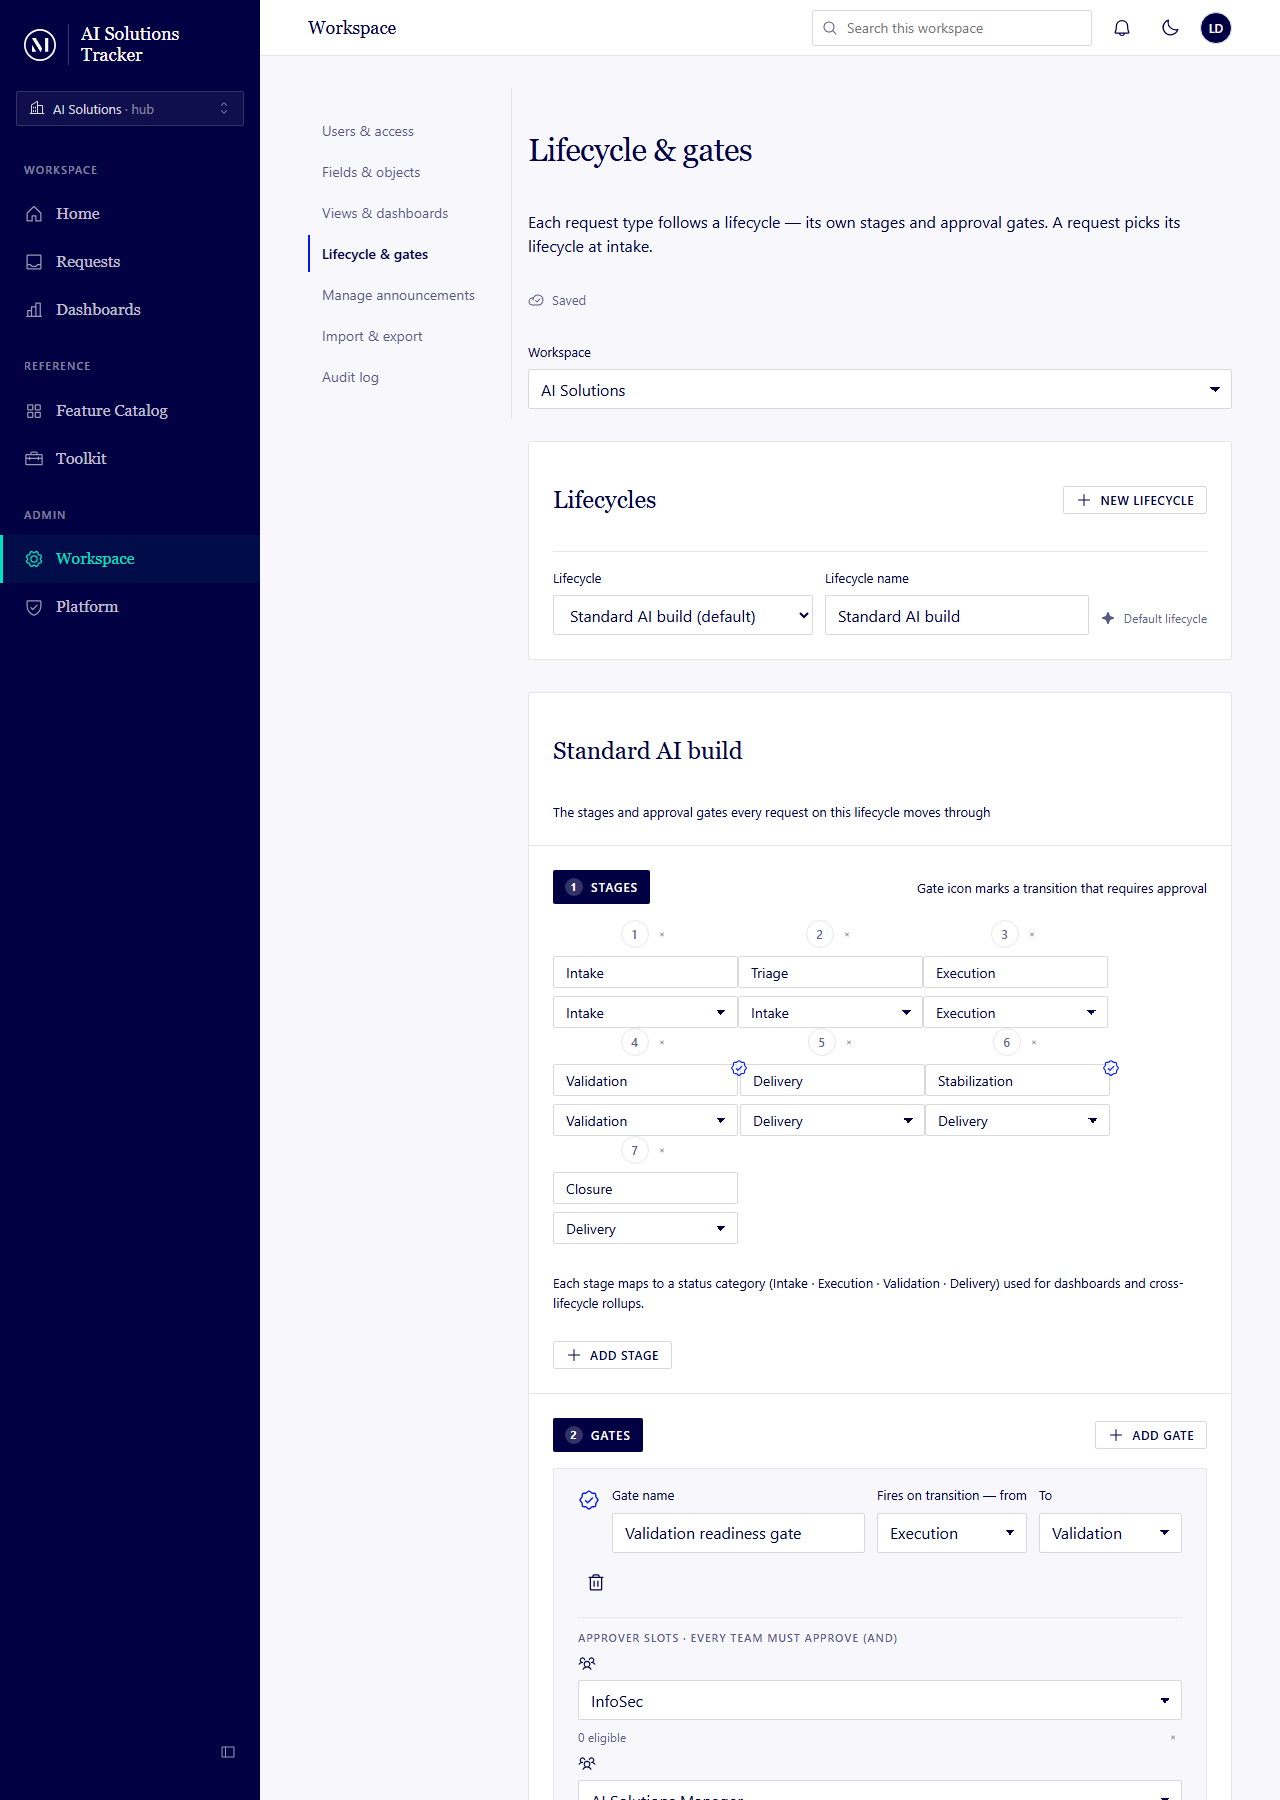
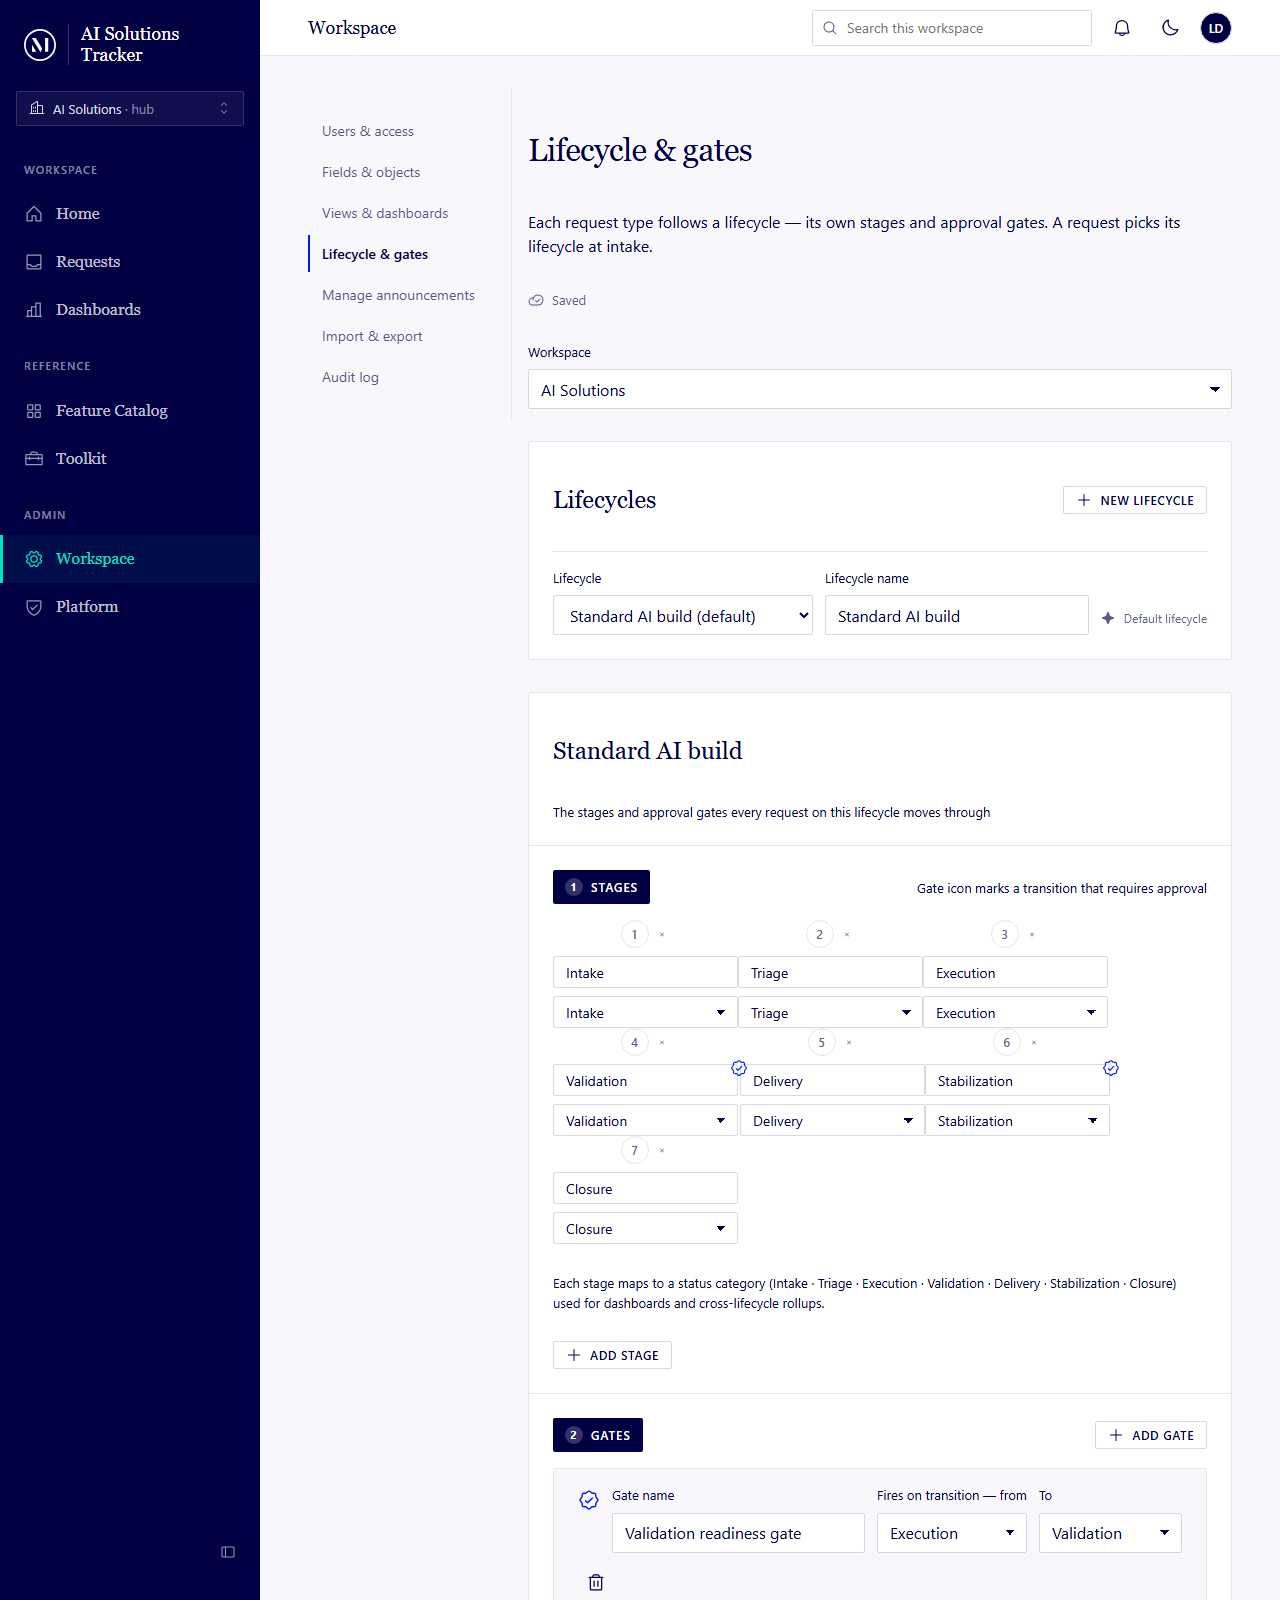
feat: one status-category bucket per lifecycle stage (4 -> 7)
Expand StatusCategory from 4 buckets to 7 so each stage maps 1:1 to its own same-named category (Intake/Triage/Execution/Validation/Delivery/Stabilization/Closure). Migration 070 (+rollback, live-verified on both dev DBs, 0 failures), shared union, LifecycleDtos regex, DashboardMetricResolver pad array, web STATUS_CATEGORIES + StagesEditor caption. Dashboards by status category now show 7 columns. API 653 tests pass.

diff --git a/shared/types/gates.ts b/shared/types/gates.ts
@@ -109,8 +109,15 @@ export interface GateDefinitionDto {
 // The prototype (authoritative) models many per-request-type Lifecycles per workspace,
 // each with its own ordered stages and gates, plus a per-workspace Approver-teams roster.
 
-/** Dashboard/rollup bucket a stage maps to (§10.6). */
-export type StatusCategory = 'Intake' | 'Execution' | 'Validation' | 'Delivery';
+/** Dashboard/rollup bucket a stage maps to (§10.6). One per stage (1:1 with the lifecycle). */
+export type StatusCategory =
+  | 'Intake'
+  | 'Triage'
+  | 'Execution'
+  | 'Validation'
+  | 'Delivery'
+  | 'Stabilization'
+  | 'Closure';
 
 /** One stage on a lifecycle's track. */
 export interface StageDefinitionDto {

diff --git a/web/src/features/dashboards/components/widgets/HeatmapWidget.tsx b/web/src/features/dashboards/components/widgets/HeatmapWidget.tsx
@@ -1,5 +1,5 @@
 // Heatmap-matrix card (S6 "Requests by Dept/PG/Client × status"). A CSS grid of Dept/PG/Client rows ×
-// [4 in-flight categories | 4 closed outcomes]. In-flight cells ramp on pale-blue and drill by cell;
+// [7 in-flight categories | 4 closed outcomes]. In-flight cells ramp on pale-blue and drill by cell;
 // closed cells ramp on the outcome palette and drill by closed-cell. Empty cells render an em-dash.
 // Cell counts come from the API; the colour ramps are computed here (token-only, per web-styling.md).
 

diff --git a/web/src/features/lifecycle/components/StagesEditor.tsx b/web/src/features/lifecycle/components/StagesEditor.tsx
@@ -79,7 +79,7 @@ export function StagesEditor({ lifecycle, dispatch }: StagesEditorProps) {
       </div>
 
       <p className="caption">
-        Each stage maps to a status category (Intake · Execution · Validation · Delivery) used for dashboards and cross-lifecycle
+        Each stage maps to a status category (Intake · Triage · Execution · Validation · Delivery · Stabilization · Closure) used for dashboards and cross-lifecycle
         rollups.
       </p>
       <span>

diff --git a/web/src/features/lifecycle/lifecycleDraft.ts b/web/src/features/lifecycle/lifecycleDraft.ts
@@ -48,7 +48,15 @@ export interface LifecycleDraft {
   gates: GateDraft[];
 }
 
-export const STATUS_CATEGORIES: readonly StatusCategory[] = ['Intake', 'Execution', 'Validation', 'Delivery'];
+export const STATUS_CATEGORIES: readonly StatusCategory[] = [
+  'Intake',
+  'Triage',
+  'Execution',
+  'Validation',
+  'Delivery',
+  'Stabilization',
+  'Closure',
+];
 
 const uid = (): string => crypto.randomUUID();
 

diff --git a/api/Api/Modules/Dashboards/DashboardMetricResolver.cs b/api/Api/Modules/Dashboards/DashboardMetricResolver.cs
@@ -19,7 +19,7 @@ namespace McDermott.AiTracker.Api.Modules.Dashboards;
 public sealed class DashboardMetricResolver
 {
     // Fixed category / outcome / bucket orders the widgets pad to (BS §10.2 — the layout is fixed).
-    private static readonly string[] StatusCategories = { "Intake", "Execution", "Validation", "Delivery" };
+    private static readonly string[] StatusCategories = { "Intake", "Triage", "Execution", "Validation", "Delivery", "Stabilization", "Closure" };
     private static readonly string[] ClosureOutcomes = { "Live", "Declined", "Withdrawn", "Duplicate" };
     private static readonly string[] AgingBuckets = { "0–2", "3–7", "8–14", "15–30", "30+" };
     private const string UnsetOrigin = "— (unset)";

diff --git a/api/Api/Modules/Lifecycle/LifecycleDtos.cs b/api/Api/Modules/Lifecycle/LifecycleDtos.cs
@@ -100,7 +100,7 @@ public sealed class StageUpsertInput
     public string? Label { get; set; }
 
     [Required]
-    [RegularExpression("^(Intake|Execution|Validation|Delivery)$")]
+    [RegularExpression("^(Intake|Triage|Execution|Validation|Delivery|Stabilization|Closure)$")]
     public string? StatusCategory { get; set; }
 
     public int SortOrder { get; set; }
